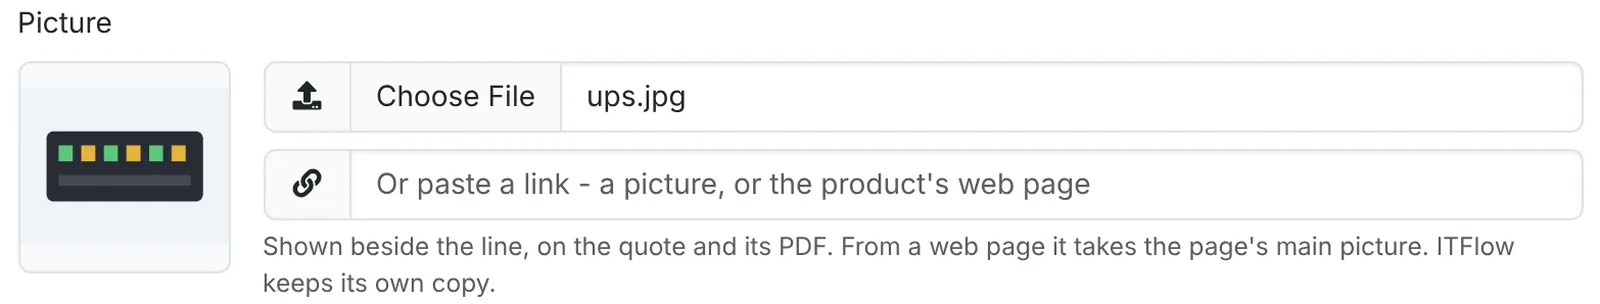
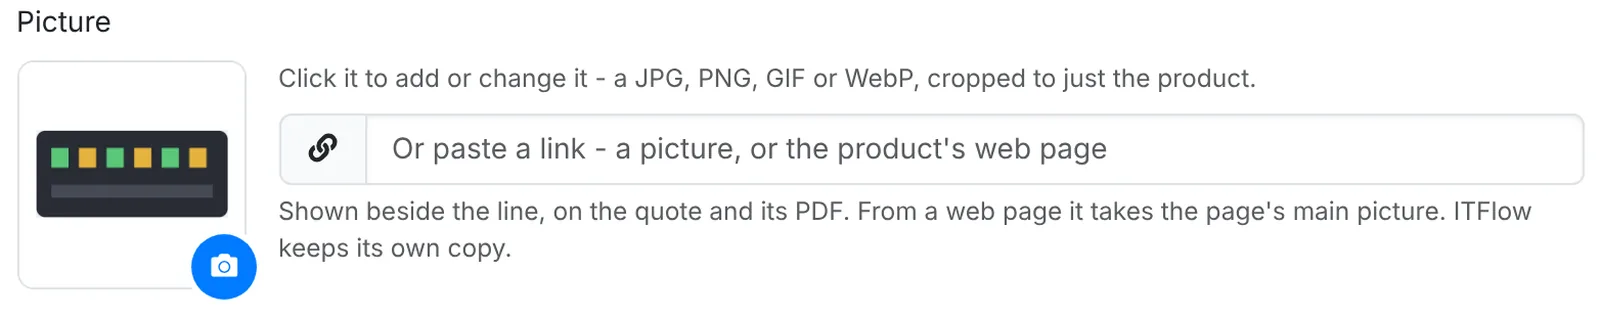
Docs: quote line and product pictures are added in the Picture window with a free crop and Trim the edges, the Picture field screenshot is retaken, and Change a picture lists product pictures with their 800 pixel size

diff --git a/content/getting-started/account.md b/content/getting-started/account.md
@@ -19,17 +19,17 @@ Click **Save** when you're done.
 
 ### Change a picture {#picture}
 
-Pictures - yours, a user's or a contact's, the photos of assets, locations and racks, an expense's receipt and your company's logo - show on their form as the picture itself, with a camera on it: the person's initials, or a camera and **Add a photo**, when there isn't one yet. Click it to open the **Picture** window.
+Pictures - yours, a user's or a contact's, the photos of assets, locations and racks, an expense's receipt, a product's or quote line's picture and your company's logo - show on their form as the picture itself, with a camera on it: the person's initials, or a camera and **Add a photo**, when there isn't one yet. Click it to open the **Picture** window.
 
 1. Drop a picture on the window, paste one, or click **Choose a picture**. It can be a JPG, PNG, GIF or WebP.
-2. Crop it to fit. It sits in a frame the shape it's shown in - a circle for a person. Drag it into place, and scroll, pinch or use the slider to zoom; on the keyboard the arrow keys move it and **+** and **-** zoom. The arrow button turns it a quarter, and the one beside it fits it again. A photo of an asset, location or rack can also be **Square**, **4:3**, **3:4** or **Whole**. A receipt or a logo has no set shape: drag the corners and edges of the frame in to just what you want, and drag inside it to move it. For a logo, **Trim the edges** cuts away the empty or plain-coloured space round it.
+2. Crop it to fit. It sits in a frame the shape it's shown in - a circle for a person. Drag it into place, and scroll, pinch or use the slider to zoom; on the keyboard the arrow keys move it and **+** and **-** zoom. The arrow button turns it a quarter, and the one beside it fits it again. A photo of an asset, location or rack can also be **Square**, **4:3**, **3:4** or **Whole**. A receipt, a logo or a product's picture has no set shape: drag the corners and edges of the frame in to just what you want, and drag inside it to move it. For a logo or a product's picture, **Trim the edges** cuts away the empty or plain-coloured space round it.
 3. Click **Use this picture**, then save the form. On an expense's quick look, a receipt is saved straight away.
 
 ![The Picture window, cropping a contact's photo to a circle](gs-picture.webp "The Picture window: drag the picture into the frame and zoom - what's in the frame is what's kept")
 
 **Remove** takes the picture off when you save the form. Clicking the picture again opens the one you picked, as you left it, to change.
 
-What's kept is what's in the frame, at up to 512 pixels across for a person, 2048 for a photo, 2400 for a receipt and 1200 for a logo - so a big phone photo goes in at a sensible size, the right way up, and without its location or camera details. A logo's see-through background stays see-through. A receipt can also be a PDF, which goes in as it is.
+What's kept is what's in the frame, at up to 512 pixels across for a person, 2048 for a photo, 2400 for a receipt, 1200 for a logo and 800 for a product's picture - so a big phone photo goes in at a sensible size, the right way up, and without its location or camera details. A logo's or product's see-through background stays see-through. A receipt can also be a PDF, which goes in as it is.
 
 ## Security
 

diff --git a/content/billing/quotes.md b/content/billing/quotes.md
@@ -74,9 +74,9 @@ A line can show a picture beside its name - handy for hardware, so the client se
 
 ![A quote line with a picture beside it](bill-quote-picture.webp "A line with its picture, as the client sees it")
 
-To add one, open the line's **⋮ > Edit**, and under **Picture** either choose a file, or paste a link - to a picture, or to the product's page on a supplier's website, and ITFlow takes the page's main picture. Click **Save**. To take it off, tick **Remove the picture**.
+To add one, open the line's **⋮ > Edit** and click the **Picture** box to open the **Picture** window. Drop, paste or choose a picture, then drag the corners and edges of the frame in to just the product, or click **Trim the edges** to cut away the plain background round it, and click **Use this picture** (see [Change a picture](/getting-started/account#picture)). Or paste a link instead - to a picture, or to the product's page on a supplier's website, and ITFlow takes the page's main picture. Click **Save**. To take it off, click the picture, then **Remove**, and save.
 
-![The Picture field in a quote line's Edit window](bill-quote-line-picture.webp "Picture: choose a file, or paste a link to a picture or a product page")
+![The Picture field in a quote line's Edit window](bill-quote-line-picture.webp "Picture: click the box to add or crop one, or paste a link to a picture or a product page")
 
 A product can keep a picture of its own, in its **Edit** window, and a line added from it takes a copy. Copying a quote copies its pictures too. ITFlow keeps its own smaller copy of each, so a picture still shows if the website it came from takes it down.
 

diff --git a/content/billing/products.md b/content/billing/products.md
@@ -24,7 +24,7 @@ Tick items and use the bulk menu to set their category or archive them. **Archiv
 5. Under **Billed**, pick **One time**, or **Monthly**, **Quarterly** or **Yearly** for something billed again and again. For a recurring item, **Counted** can be **Per user**, **Per device** or **Per managed device** - the client's devices in your [RMM](/admin/rmm): on a recurring invoice the quantity then comes from the client's own count (see [Recurring invoices](/billing/recurring-invoices#bill-per-user-per-device-or-per-seat)).
 6. Add a **Code** (your SKU), the **Vendor** you buy it from and the **Vendor part number** you order it as.
 7. Write the **Description** the client sees under the line on invoices and quotes, and any **Notes** for agents - lead time, where to order it, what to check before quoting.
-8. Add a **Picture**, if you like - choose a file, or paste a link to it or to the product's page. A quote line added from the item shows a copy (see [Pictures](/billing/quotes#pictures)).
+8. Add a **Picture**, if you like - click the box to add one and crop it to the product, or paste a link to it or to the product's page. A quote line added from the item shows a copy (see [Pictures](/billing/quotes#pictures)).
 9. Click **Add**.
 
 ![The New Product or Service window](bill-product-form.webp "New Product or Service: what it is, what it costs, how it's billed and where it comes from")
